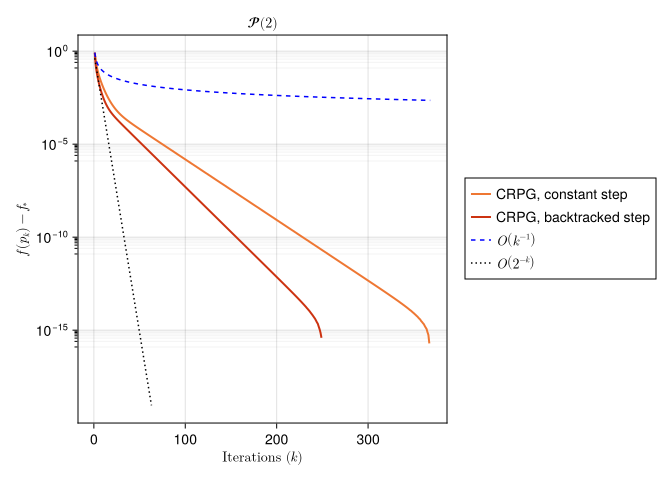
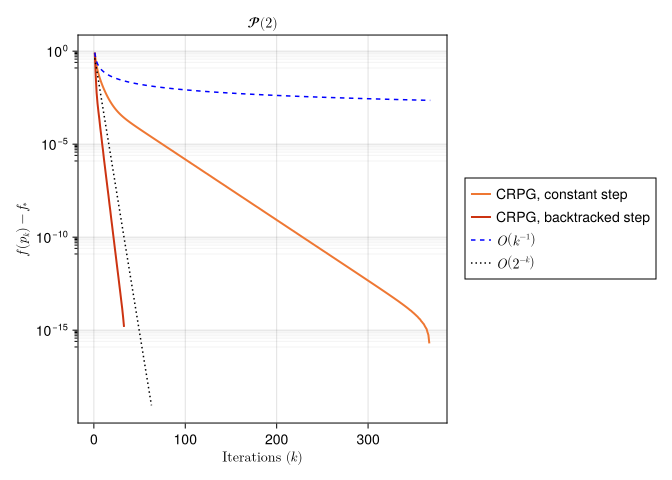
Update markdown notebooks

diff --git a/docs/src/examples/CRPG-Constrained-Mean-Hn.md b/docs/src/examples/CRPG-Constrained-Mean-Hn.md
@@ -1,5 +1,4 @@
-# The Constrained mean on high-dimensional Hyperbolic space
-
+# The Constrained mean on high-dimensional Hyperbolic space.
 Hajg Jasa, Ronny Bergmann
 2026-04-06
 
@@ -149,7 +148,7 @@ Proj_means = [
     project_C(M, m; op=c, radius=r) for
     (M, m, c, r) in zip(M_range, means, centers, radius_range)
 ]
-# Samll sanity check, these should all be about zero
+# Small sanity check, these should all be about zero
 ds = [distance(M, m, c) - r for (M, m, c, r) in zip(M_range, Proj_means, centers, radius_range)]
 maximum(abs.(ds))
 ```
@@ -168,12 +167,12 @@ function bench_aep(Manifold, center, radius, data)
     _proj_C!(M, q, p) = project_C!(M, q, p; radius=radius, op=center)
     _F(M, p) = F(M, p; pts=data, radius=radius, op=center)
     _prox_I!(M, q, λ, p) = _proj_C!(M, q, p)
-    # Copmute the Lipschitz constant of the gradient of f for the stepsize
+    # Compute the Lipschitz constant of the gradient of f for the stepsize
     D = 2 * maximum([distance(Manifold, center, pt) for pt in data])
     L_f = Manopt.ζ_1(-1, D)
     constant_stepsize = 1 / L_f
-    initial_stepsize = constant_stepsize
-    contraction_factor = 0.9
+    initial_stepsize = 4*constant_stepsize
+    contraction_factor = 0.8
     warm_start_factor = 10.0
     #
     # returns
@@ -253,6 +252,7 @@ function bench_aep(Manifold, center, radius, data)
             initial_stepsize=initial_stepsize,
             stop_when_stepsize_less=tol,
             contraction_factor=contraction_factor,
+            warm_start_factor=warm_start_factor,
         )),
         stopping_criterion=$(StopWhenGradientMappingNormLess(tol)|StopAfterIteration(5000)),
     ) evals = 1 samples = 10 seconds = 100
@@ -306,10 +306,11 @@ lines!(axis, n_range, [bi[:CRPG_BT][:time] for bi in b]; label="CRPG, backtracke
 lines!(axis, n_range, [bi[:PGA][:time] for bi in b]; label="PGA", color=tol_vibrant[2],)
 axis.xlabel = "Manifold dimension d"
 axis.ylabel = "runtime (sec.)"
+axis.yscale = log10
 axislegend(axis; position=:lt)
 ```
 
-![](CRPG-Constrained-Mean-Hn_files/figure-commonmark/cell-14-output-1.png)
+    Makie.Legend()
 
 ``` julia
 display(fig)
@@ -331,6 +332,8 @@ axis2.xlabel = "Manifold dimension d"
 axis2.ylabel = "# Iterations"
 axislegend(axis2; position=:rt)
 ```
+
+    Makie.Legend()
 
 ``` julia
 display(fig2)
@@ -354,32 +357,36 @@ This tutorial is cached. It was last run on the following package versions.
     Status `~/Repositories/Julia/ManoptExamples.jl/examples/Project.toml`
       [6e4b80f9] BenchmarkTools v1.8.0
       [336ed68f] CSV v0.10.16
-      [13f3f980] CairoMakie v0.15.11
+      [13f3f980] CairoMakie v0.15.13
       [0ca39b1e] Chairmarks v1.3.1
       [35d6a980] ColorSchemes v3.31.0
       [5ae59095] Colors v0.13.1
       [a93c6f00] DataFrames v1.8.2
-      [31c24e10] Distributions v0.25.126
-      [e9467ef8] GLMakie v0.13.11
+      [31c24e10] Distributions v0.25.129
+      [e9467ef8] GLMakie v0.13.13
+      [5c1252a2] GeometryBasics v0.5.11
       [4d00f742] GeometryTypes v0.8.5
       [7073ff75] IJulia v1.34.4
       [682c06a0] JSON v1.6.1
       [8ac3fa9e] LRUCache v1.6.2
       [b964fa9f] LaTeXStrings v1.4.0
       [d3d80556] LineSearches v7.7.1
-      [ee78f7c6] Makie v0.24.11
+      [ee78f7c6] Makie v0.24.13
+      [7351309b] ManifoldAsymptote v0.1.0
       [af67fdf4] ManifoldDiff v0.4.5
-      [1cead3c2] Manifolds v0.11.27
-      [3362f125] ManifoldsBase v2.4.0
-      [0fc0a36d] Manopt v0.5.39
-      [5b8d5e80] ManoptExamples v0.1.18 `..`
+      [9d80ff41] ManifoldMakie v0.1.2
+      [1cead3c2] Manifolds v0.11.28
+      [3362f125] ManifoldsBase v2.5.0
+    ⌃ [0fc0a36d] Manopt v0.6.2
+      [5b8d5e80] ManoptExamples v0.1.20 `..`
       [51fcb6bd] NamedColors v0.2.3
       [6fe1bfb0] OffsetArrays v1.17.0
       [91a5bcdd] Plots v1.41.6
-      [08abe8d2] PrettyTables v3.3.2
+      [08abe8d2] PrettyTables v3.4.2
       [6099a3de] PythonCall v0.9.35
       [f468eda6] QuadraticModels v0.9.16
-      [731186ca] RecursiveArrayTools v4.3.1
+      [731186ca] RecursiveArrayTools v4.3.4
       [1e40b3f8] RipQP v0.7.0
+    Info Packages marked with ⌃ have new versions available and may be upgradable.
 
-This tutorial was last rendered June 12, 2026, 11:25:27.
+This tutorial was last rendered July 21, 2026, 12:44:31.

diff --git a/docs/src/examples/CRPG-Convex-SPD.md b/docs/src/examples/CRPG-Convex-SPD.md
@@ -1,5 +1,4 @@
 # A Geodesically Convex Example on SPDs
-
 Hajg Jasa
 2025-04-16
 
@@ -231,7 +230,7 @@ for n in spd_dims
     # Conseravative estimate of the Lipschitz constant for grad_g
     L_g = 1.05 * theoretical_lipschitz_constant(M, p0, n, D/2)
     constant_stepsize = 1/L_g
-    initial_stepsize = 3/2 * constant_stepsize
+    initial_stepsize = 1.0
     contraction_factor = 0.9
     warm_start_factor = 2.0
 
@@ -295,10 +294,10 @@ We can take a look at how the algorithms compare to each other in their performa
 
 | **Dimension** | **Iterations_1** | **Time_1** | **Cost_1** | **Iterations_2** | **Time_2** | **Cost_2** |
 |---:|---:|---:|---:|---:|---:|---:|
-| 3 | 367 | 0.00434125 | 0.18593 | 249 | 0.00705408 | 0.18593 |
-| 6 | 1944 | 0.041469 | 0.27078 | 1341 | 0.0818578 | 0.27078 |
-| 10 | 8640 | 0.263846 | 0.371274 | 6027 | 0.527204 | 0.371274 |
-| 15 | 15535 | 0.613913 | 0.449625 | 12544 | 2.69701 | 0.449625 |
+| 3 | 367 | 0.00413319 | 0.18593 | 33 | 0.00313963 | 0.18593 |
+| 6 | 1944 | 0.0419539 | 0.27078 | 56 | 0.0092925 | 0.27078 |
+| 10 | 8640 | 0.268461 | 0.371274 | 91 | 0.0211671 | 0.371274 |
+| 15 | 15535 | 0.622467 | 0.449625 | 121 | 0.037345 | 0.449625 |
 
 Lastly, we showcase the rate of decay of the function values for $n = 2$.
 
@@ -418,7 +417,7 @@ end
 
 ![](CRPG-Convex-SPD_files/figure-commonmark/cell-13-output-1.png)
 
-This is in line with the convergence rates of the CRPG method in the geodesically convex setting, as shown in [BergmannJasaJohnPfeffer:2025:2](@cite), Theorem 4.7.
+This is in line with the convergence rates of the CRPG method in the geodesically convex setting, as shown in [BergmannJasaJohnPfeffer:2025:2](@cite), Theorem 4.10.
 
 ## Technical details
 
@@ -427,35 +426,39 @@ This tutorial is cached. It was last run on the following package versions.
     Status `~/Repositories/Julia/ManoptExamples.jl/examples/Project.toml`
       [6e4b80f9] BenchmarkTools v1.8.0
       [336ed68f] CSV v0.10.16
-      [13f3f980] CairoMakie v0.15.11
+      [13f3f980] CairoMakie v0.15.13
       [0ca39b1e] Chairmarks v1.3.1
       [35d6a980] ColorSchemes v3.31.0
       [5ae59095] Colors v0.13.1
       [a93c6f00] DataFrames v1.8.2
-      [31c24e10] Distributions v0.25.126
-      [e9467ef8] GLMakie v0.13.11
+      [31c24e10] Distributions v0.25.129
+      [e9467ef8] GLMakie v0.13.13
+      [5c1252a2] GeometryBasics v0.5.11
       [4d00f742] GeometryTypes v0.8.5
       [7073ff75] IJulia v1.34.4
       [682c06a0] JSON v1.6.1
       [8ac3fa9e] LRUCache v1.6.2
       [b964fa9f] LaTeXStrings v1.4.0
       [d3d80556] LineSearches v7.7.1
-      [ee78f7c6] Makie v0.24.11
+      [ee78f7c6] Makie v0.24.13
+      [7351309b] ManifoldAsymptote v0.1.0
       [af67fdf4] ManifoldDiff v0.4.5
-      [1cead3c2] Manifolds v0.11.27
-      [3362f125] ManifoldsBase v2.4.0
-      [0fc0a36d] Manopt v0.5.39
-      [5b8d5e80] ManoptExamples v0.1.18 `..`
+      [9d80ff41] ManifoldMakie v0.1.2
+      [1cead3c2] Manifolds v0.11.28
+      [3362f125] ManifoldsBase v2.5.0
+    ⌃ [0fc0a36d] Manopt v0.6.2
+      [5b8d5e80] ManoptExamples v0.1.20 `..`
       [51fcb6bd] NamedColors v0.2.3
       [6fe1bfb0] OffsetArrays v1.17.0
       [91a5bcdd] Plots v1.41.6
-      [08abe8d2] PrettyTables v3.3.2
+      [08abe8d2] PrettyTables v3.4.2
       [6099a3de] PythonCall v0.9.35
       [f468eda6] QuadraticModels v0.9.16
-      [731186ca] RecursiveArrayTools v4.3.1
+      [731186ca] RecursiveArrayTools v4.3.4
       [1e40b3f8] RipQP v0.7.0
+    Info Packages marked with ⌃ have new versions available and may be upgradable.
 
-This tutorial was last rendered June 11, 2026, 15:15:51.
+This tutorial was last rendered July 21, 2026, 12:47:32.
 
 ## Literature
 
